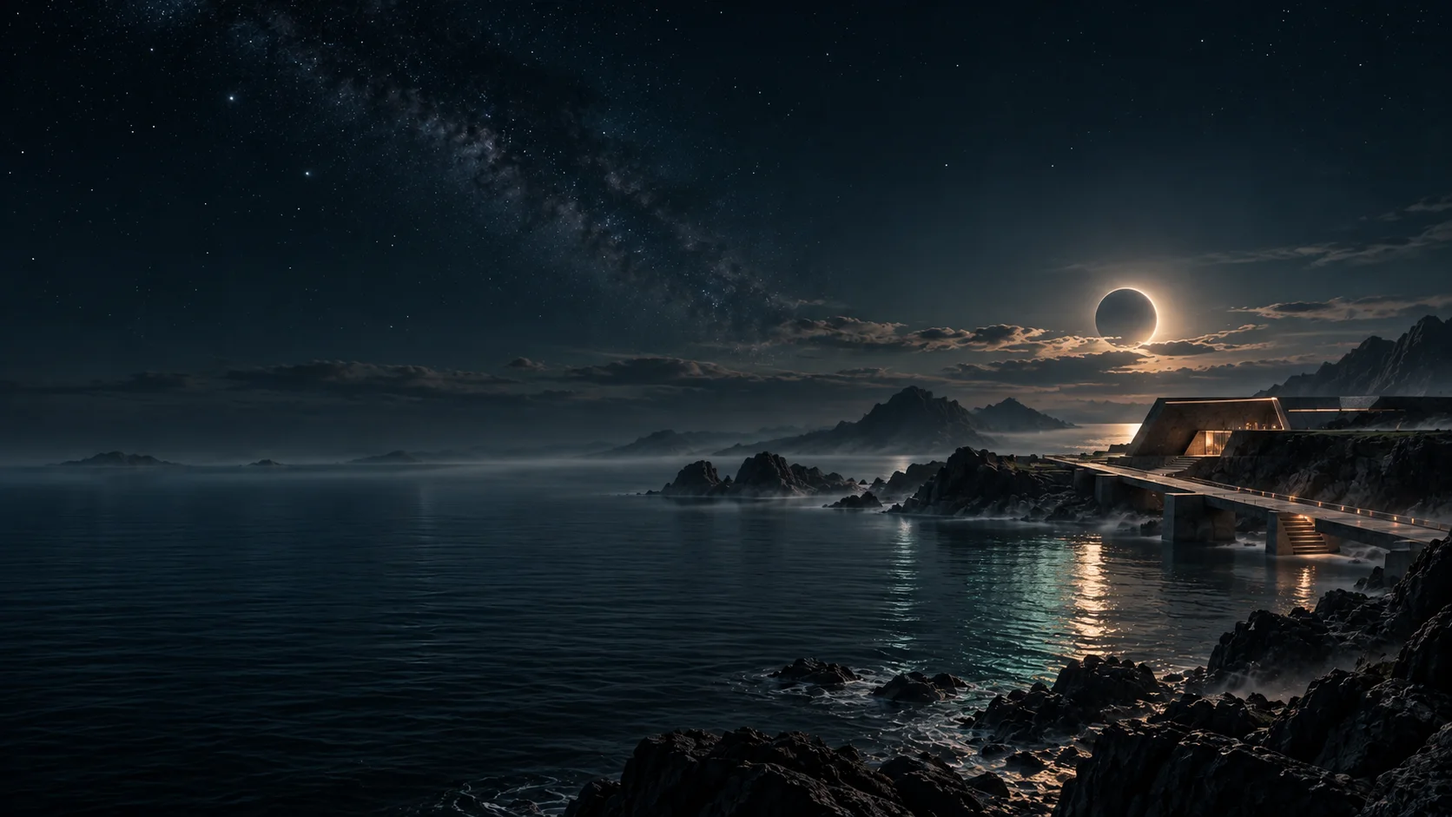
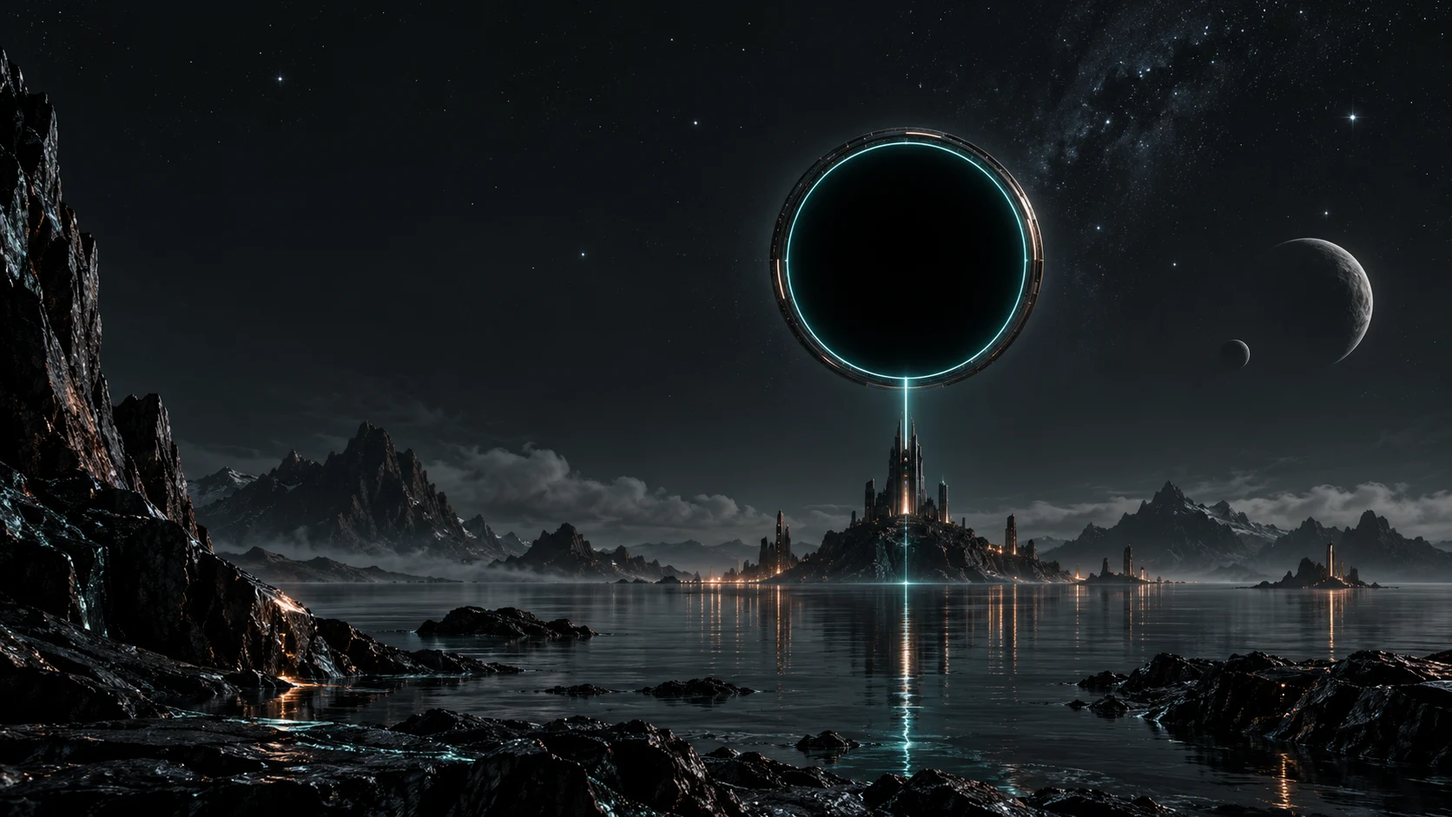
Publish Obsidian Tide 0.2.0 downloads and installation guides

diff --git a/style.css b/style.css
@@ -1,3 +1,3 @@
 @font-face{font-family:Inter;src:url('assets/Inter-Regular.otf') format('opentype');font-weight:400;font-display:swap}@font-face{font-family:Inter;src:url('assets/Inter-SemiBold.otf') format('opentype');font-weight:600;font-display:swap}@font-face{font-family:Inter;src:url('assets/Inter-Bold.otf') format('opentype');font-weight:700;font-display:swap}
-:root{color-scheme:dark;--bg:#0c1619;--surface:#142125;--line:#2c3c40;--text:#edf2ec;--muted:#a8b7b7;--teal:#82dac7;--copper:#dfb18b}*{box-sizing:border-box}html{scroll-behavior:smooth;scroll-padding-top:30px}body{margin:0;background:var(--bg);color:var(--text);font-family:Inter,system-ui,sans-serif;line-height:1.65;font-size:16px}a{color:inherit;text-decoration:none}button{font:inherit;cursor:pointer}button,a{-webkit-tap-highlight-color:transparent}button:focus-visible,a:focus-visible,summary:focus-visible,[tabindex]:focus-visible{outline:3px solid var(--teal);outline-offset:5px}button{color:inherit}img{display:block;max-width:100%;height:auto}[hidden]{display:none!important}.wrap{width:min(1240px,calc(100% - 96px));margin-inline:auto}.skip{position:fixed;top:-80px;left:20px;z-index:20;padding:10px 20px;background:var(--teal);color:var(--bg)}.skip:focus{top:12px}.site-header{display:flex;align-items:center;gap:35px;padding-block:32px}.brand{display:flex;align-items:center;gap:12px;line-height:1.1;font-size:17px;font-weight:700;letter-spacing:.09em}.brand small{display:block;font-weight:400;letter-spacing:.16em;font-size:9px;color:var(--muted);margin-top:7px}.site-header nav{display:flex;align-items:center;gap:36px;margin-left:auto;font-size:13px}.site-header nav a:hover,.text-link:hover{color:var(--teal)}.nav-download{border-bottom:1px solid var(--teal);padding-bottom:5px}.language{border:1px solid var(--line);border-radius:6px;background:transparent;font-size:12px;padding:8px 12px}.hero{display:grid;grid-template-columns:1.08fr 1fr;gap:56px;align-items:center;padding-top:60px;padding-bottom:84px}.eyebrow{font-size:10px;letter-spacing:.16em;font-weight:600;display:flex;gap:10px;align-items:center;color:var(--teal);margin:0 0 26px}.status-dot{display:inline-block;width:6px;height:6px;background:var(--teal);border-radius:50%;flex-shrink:0}.edition{color:var(--muted);border-left:1px solid var(--line);padding-left:10px;letter-spacing:.08em}h1,h2,h3,p{margin-top:0}h1{font-size:clamp(44px,4.9vw,68px);letter-spacing:-.055em;line-height:1.1;font-weight:600;margin-bottom:28px}h1 em{font-style:normal;color:var(--teal)}.hero-description{max-width:460px;color:var(--muted);font-size:15px;line-height:1.9;margin-bottom:28px}.hero-actions{display:flex;gap:22px;align-items:center;flex-wrap:wrap}.button{display:inline-flex;align-items:center;justify-content:center;gap:22px;font-size:13px;font-weight:600;padding:14px 22px;border:1px solid transparent;border-radius:5px;min-height:48px;transition:background .15s}.primary{background:var(--teal);color:#102126}.primary:hover{background:#a5ebdc}.secondary{border-color:#42565a;background:#1c2d31}.secondary:hover{background:#2b4145}.text-link{font-size:12px;line-height:1.7}.hero-note{font-size:10px;color:var(--muted);margin-top:20px;margin-bottom:0}.hero-art{position:relative;margin:0;min-height:490px;overflow:hidden;background:#112629;border-radius:2px}.hero-art>img{height:490px;object-fit:cover;object-position:58% center;width:100%}.hero-art:after{content:'';position:absolute;inset:0;background:linear-gradient(transparent 55%,#081619c9)}.hero-art figcaption{position:absolute;z-index:1;bottom:24px;left:25px;right:25px;display:flex;justify-content:space-between;gap:12px;color:#e3e9e3;font-size:9px;letter-spacing:.1em}.art-word{position:absolute;z-index:1;bottom:54px;left:24px;font-size:96px;line-height:1;font-weight:600;letter-spacing:-.065em;color:#dceae69c}.foundation{display:flex;align-items:center;justify-content:space-between;border-block:1px solid var(--line);padding:22px 0;gap:20px;font-size:11px;color:var(--muted)}.foundation p{margin:0;color:#d3dfdc;font-size:12px}.foundation i{font-style:normal;margin:0 14px;color:#627976}.desktop-section{padding-block:104px}.section-heading{display:grid;grid-template-columns:1fr 1fr;column-gap:80px;margin-bottom:46px}.section-heading .eyebrow{grid-column:1/-1}.section-heading h2{font-size:clamp(30px,3.2vw,43px);letter-spacing:-.04em;line-height:1.18;margin:0;font-weight:600}.section-heading>p:last-child{max-width:460px;color:var(--muted);font-size:14px;line-height:1.9;margin:4px 0 0}.showcase{border:1px solid var(--line);background:#101b1e;border-radius:8px;overflow:hidden}.showcase-tabs{display:flex;gap:36px;padding:0 32px;border-bottom:1px solid var(--line)}.showcase-tabs button{font-size:12px;position:relative;background:transparent;border:0;padding:21px 0;color:var(--muted)}.showcase-tabs button[aria-selected=true]{color:var(--teal)}.showcase-tabs button[aria-selected=true]:after{content:'';position:absolute;bottom:-1px;left:0;right:0;height:2px;background:var(--teal)}.app-preview{padding:34px 10% 0;min-height:520px;display:flex;align-items:flex-start;justify-content:center;background:linear-gradient(135deg,#173331,#102329 50%,#27302c)}.app-preview img{border:1px solid #49605b;border-bottom:0;border-radius:8px 8px 0 0;width:100%;max-height:600px;object-fit:contain;object-position:top;box-shadow:0 15px 40px #0007}.showcase-caption{display:flex;gap:30px;align-items:flex-start;padding:26px 32px;position:relative;z-index:1;border-top:1px solid var(--line);background:#101b1e}.tiny-label{white-space:nowrap;font-size:9px;letter-spacing:.12em;color:var(--teal);padding-top:3px}.showcase-caption p{font-size:12px;color:var(--muted);margin:0;max-width:680px}.feature-lines{display:grid;grid-template-columns:1fr 1fr;gap:60px;margin-top:46px}.feature-lines article{display:flex;gap:18px;border-top:1px solid var(--line);padding-top:28px}.feature-number{font-size:10px;color:var(--copper);padding-top:5px}h3{font-size:17px;line-height:1.45;font-weight:600;letter-spacing:-.02em;margin-bottom:12px}.feature-lines p{font-size:13px;color:var(--muted);line-height:1.9;margin:0}.download-section{background:#142428;border-block:1px solid #2b4043;padding-block:90px}.download-layout{display:grid;grid-template-columns:1fr 1.08fr;gap:90px}.download-layout h2{font-size:48px;line-height:1.15;letter-spacing:-.04em;font-weight:600;margin-bottom:24px}.download-layout>div>p{font-size:14px;max-width:375px;color:var(--muted)}.release-stamp{display:flex;align-items:center;gap:10px;flex-wrap:wrap;border-top:1px solid #34474a;margin-top:40px;padding-top:24px;font-size:12px}.release-stamp>span:last-child{width:100%;padding-left:16px;font-size:9px;letter-spacing:.12em;color:var(--muted)}.preview-note{margin-top:22px;font-size:12px!important;color:var(--copper)!important}.release-link{display:block;margin-top:22px}.download-panel{background:#0d191c;border:1px solid #3a5052;border-radius:8px;padding:28px}.platform-picker{display:flex;border:1px solid var(--line);border-radius:5px;padding:4px;gap:4px}.platform-picker button{flex:1;background:transparent;border:0;font-size:13px;padding:10px;border-radius:3px;color:var(--muted)}.platform-picker .selected{background:#294743;color:var(--teal)}.platform-hint{font-size:10px!important;max-width:none!important;margin-top:12px;margin-bottom:26px}.release-status{font-size:14px;color:var(--copper);padding:20px;border:1px solid #4e4b40;border-radius:4px}.download-step{display:flex;gap:14px;padding:22px 0;border-top:1px solid var(--line)}.download-step>div{min-width:0;width:100%}.step-badge{border:1px solid #415b58;background:#1b3231;color:var(--teal);font-size:10px;line-height:24px;text-align:center;width:25px;height:25px;flex-shrink:0;border-radius:50%}.download-step h3{font-size:13px;margin-bottom:6px}.download-step p{font-size:11px;color:var(--muted);margin-bottom:15px}.parts{display:grid;grid-template-columns:repeat(4,1fr);gap:7px}.parts a{padding:10px 5px;text-align:center;font-size:11px;background:#1c2d31;border:1px solid #354b4e;border-radius:4px}.parts a:hover{border-color:var(--teal);color:var(--teal)}.download-meta{font-size:10px!important;margin:10px 0 0!important}.download-step .button{width:100%;font-size:12px;min-height:43px;padding:12px}.download-step .text-link{display:inline-block;margin-top:12px;font-size:10px}.download-step details{margin-top:12px}details summary{font-size:11px;color:var(--muted);cursor:pointer}code{display:block;margin-top:12px;background:#081315;border:1px solid var(--line);padding:12px;color:#bddecf;font-size:10px;line-height:1.8;overflow-wrap:anywhere;white-space:pre-wrap}.checksum{border-top:1px solid var(--line);padding-top:18px}.checksum a{font-size:11px;display:inline-block;margin-top:10px;color:var(--teal)}.install-section{padding-block:104px}.install-steps{list-style:none;padding:0;margin:44px 0 52px;display:grid;grid-template-columns:repeat(3,1fr);gap:44px}.install-steps li{border-top:1px solid var(--line);padding-top:22px}.install-steps span{color:var(--copper);font-size:11px}.install-steps h3{margin-top:20px;font-size:15px}.install-steps p{font-size:12px;color:var(--muted);line-height:1.85;margin:0}.requirements{display:grid;grid-template-columns:1fr 1fr;gap:70px;padding:30px 0;border-block:1px solid var(--line)}.requirements h3{font-size:13px}.requirements p{font-size:12px;color:var(--muted);margin-bottom:10px}.requirements .text-link{color:var(--teal)}.faq{padding:22px 0;border-bottom:1px solid var(--line)}.faq summary{font-size:13px;color:var(--text)}.faq p{font-size:12px;color:var(--muted);max-width:720px;margin:16px 0 0}.site-footer{display:flex;align-items:center;justify-content:space-between;gap:24px;padding:30px 0 42px;border-top:1px solid var(--line)}.site-footer p,.site-footer>a:last-child{font-size:10px;color:var(--muted);margin:0}.site-footer .brand{font-size:12px}.site-footer .brand small{font-size:8px}
+:root{color-scheme:dark;--bg:#0c1619;--surface:#142125;--line:#2c3c40;--text:#edf2ec;--muted:#a8b7b7;--teal:#82dac7;--copper:#dfb18b}*{box-sizing:border-box}html{scroll-behavior:smooth;scroll-padding-top:30px}body{margin:0;background:var(--bg);color:var(--text);font-family:Inter,system-ui,sans-serif;line-height:1.65;font-size:16px}a{color:inherit;text-decoration:none}button{font:inherit;cursor:pointer}button,a{-webkit-tap-highlight-color:transparent}button:focus-visible,a:focus-visible,summary:focus-visible,[tabindex]:focus-visible{outline:3px solid var(--teal);outline-offset:5px}button{color:inherit}img{display:block;max-width:100%;height:auto}[hidden]{display:none!important}.wrap{width:min(1240px,calc(100% - 96px));margin-inline:auto}.skip{position:fixed;top:12px;left:20px;z-index:20;background:var(--teal);color:var(--bg);clip-path:inset(50%);width:1px;height:1px;padding:0;overflow:hidden;white-space:nowrap}.skip:focus{clip-path:none;width:auto;height:auto;padding:10px 20px;overflow:visible}.site-header{display:flex;align-items:center;gap:35px;padding-block:32px}.brand{display:flex;align-items:center;gap:12px;line-height:1.1;font-size:17px;font-weight:700;letter-spacing:.09em}.brand small{display:block;font-weight:400;letter-spacing:.16em;font-size:9px;color:var(--muted);margin-top:7px}.site-header nav{display:flex;align-items:center;gap:36px;margin-left:auto;font-size:13px}.site-header nav a:hover,.text-link:hover{color:var(--teal)}.nav-download{border-bottom:1px solid var(--teal);padding-bottom:5px}.language{border:1px solid var(--line);border-radius:6px;background:transparent;font-size:12px;padding:8px 12px}.hero{display:grid;grid-template-columns:1.08fr 1fr;gap:56px;align-items:center;padding-top:60px;padding-bottom:84px}.eyebrow{font-size:10px;letter-spacing:.16em;font-weight:600;display:flex;gap:10px;align-items:center;color:var(--teal);margin:0 0 26px}.status-dot{display:inline-block;width:6px;height:6px;background:var(--teal);border-radius:50%;flex-shrink:0}.edition{color:var(--muted);border-left:1px solid var(--line);padding-left:10px;letter-spacing:.08em}h1,h2,h3,p{margin-top:0}h1{font-size:clamp(44px,4.9vw,68px);letter-spacing:-.055em;line-height:1.1;font-weight:600;margin-bottom:28px}h1 em{font-style:normal;color:var(--teal)}.hero-description{max-width:460px;color:var(--muted);font-size:15px;line-height:1.9;margin-bottom:28px}.hero-actions{display:flex;gap:22px;align-items:center;flex-wrap:wrap}.button{display:inline-flex;align-items:center;justify-content:center;gap:22px;font-size:13px;font-weight:600;padding:14px 22px;border:1px solid transparent;border-radius:5px;min-height:48px;transition:background .15s}.primary{background:var(--teal);color:#102126}.primary:hover{background:#a5ebdc}.secondary{border-color:#42565a;background:#1c2d31}.secondary:hover{background:#2b4145}.text-link{font-size:12px;line-height:1.7}.hero-note{font-size:10px;color:var(--muted);margin-top:20px;margin-bottom:0}.hero-art{position:relative;margin:0;min-height:490px;overflow:hidden;background:#112629;border-radius:2px}.hero-art>img{height:490px;object-fit:cover;object-position:58% center;width:100%}.hero-art:after{content:'';position:absolute;inset:0;background:linear-gradient(transparent 55%,#081619c9)}.hero-art figcaption{position:absolute;z-index:1;bottom:24px;left:25px;right:25px;display:flex;justify-content:space-between;gap:12px;color:#e3e9e3;font-size:9px;letter-spacing:.1em}.art-word{position:absolute;z-index:1;bottom:54px;left:24px;font-size:96px;line-height:1;font-weight:600;letter-spacing:-.065em;color:#dceae69c}.foundation{display:flex;align-items:center;justify-content:space-between;border-block:1px solid var(--line);padding:22px 0;gap:20px;font-size:11px;color:var(--muted)}.foundation p{margin:0;color:#d3dfdc;font-size:12px}.foundation i{font-style:normal;margin:0 14px;color:#627976}.desktop-section{padding-block:104px}.section-heading{display:grid;grid-template-columns:1fr 1fr;column-gap:80px;margin-bottom:46px}.section-heading .eyebrow{grid-column:1/-1}.section-heading h2{font-size:clamp(30px,3.2vw,43px);letter-spacing:-.04em;line-height:1.18;margin:0;font-weight:600}.section-heading>p:last-child{max-width:460px;color:var(--muted);font-size:14px;line-height:1.9;margin:4px 0 0}.showcase{border:1px solid var(--line);background:#101b1e;border-radius:8px;overflow:hidden}.showcase-tabs{display:flex;gap:36px;padding:0 32px;border-bottom:1px solid var(--line)}.showcase-tabs button{font-size:12px;position:relative;background:transparent;border:0;padding:21px 0;color:var(--muted)}.showcase-tabs button[aria-selected=true]{color:var(--teal)}.showcase-tabs button[aria-selected=true]:after{content:'';position:absolute;bottom:-1px;left:0;right:0;height:2px;background:var(--teal)}.app-preview{padding:34px 10% 0;min-height:520px;display:flex;align-items:flex-start;justify-content:center;background:linear-gradient(135deg,#173331,#102329 50%,#27302c)}.app-preview img{border:1px solid #49605b;border-bottom:0;border-radius:8px 8px 0 0;width:100%;max-height:600px;object-fit:contain;object-position:top;box-shadow:0 15px 40px #0007}.showcase-caption{display:flex;gap:30px;align-items:flex-start;padding:26px 32px;position:relative;z-index:1;border-top:1px solid var(--line);background:#101b1e}.tiny-label{white-space:nowrap;font-size:9px;letter-spacing:.12em;color:var(--teal);padding-top:3px}.showcase-caption p{font-size:12px;color:var(--muted);margin:0;max-width:680px}.feature-lines{display:grid;grid-template-columns:1fr 1fr;gap:60px;margin-top:46px}.feature-lines article{display:flex;gap:18px;border-top:1px solid var(--line);padding-top:28px}.feature-number{font-size:10px;color:var(--copper);padding-top:5px}h3{font-size:17px;line-height:1.45;font-weight:600;letter-spacing:-.02em;margin-bottom:12px}.feature-lines p{font-size:13px;color:var(--muted);line-height:1.9;margin:0}.download-section{background:#142428;border-block:1px solid #2b4043;padding-block:90px}.download-layout{display:grid;grid-template-columns:1fr 1.08fr;gap:90px}.download-layout h2{font-size:48px;line-height:1.15;letter-spacing:-.04em;font-weight:600;margin-bottom:24px}.download-layout>div>p{font-size:14px;max-width:375px;color:var(--muted)}.release-stamp{display:flex;align-items:center;gap:10px;flex-wrap:wrap;border-top:1px solid #34474a;margin-top:40px;padding-top:24px;font-size:12px}.release-stamp>span:last-child{width:100%;padding-left:16px;font-size:9px;letter-spacing:.12em;color:var(--muted)}.preview-note{margin-top:22px;font-size:12px!important;color:var(--copper)!important}.release-link{display:block;margin-top:22px}.download-panel{background:#0d191c;border:1px solid #3a5052;border-radius:8px;padding:28px}.platform-picker{display:flex;border:1px solid var(--line);border-radius:5px;padding:4px;gap:4px}.platform-picker button{flex:1;background:transparent;border:0;font-size:13px;padding:10px;border-radius:3px;color:var(--muted)}.platform-picker .selected{background:#294743;color:var(--teal)}.platform-hint{font-size:10px!important;max-width:none!important;margin-top:12px;margin-bottom:26px}.release-status{font-size:14px;color:var(--copper);padding:20px;border:1px solid #4e4b40;border-radius:4px}.download-step{display:flex;gap:14px;padding:22px 0;border-top:1px solid var(--line)}.download-step>div{min-width:0;width:100%}.step-badge{border:1px solid #415b58;background:#1b3231;color:var(--teal);font-size:10px;line-height:24px;text-align:center;width:25px;height:25px;flex-shrink:0;border-radius:50%}.download-step h3{font-size:13px;margin-bottom:6px}.download-step p{font-size:11px;color:var(--muted);margin-bottom:15px}.parts{display:grid;grid-template-columns:repeat(4,1fr);gap:7px}.parts a{padding:10px 5px;text-align:center;font-size:11px;background:#1c2d31;border:1px solid #354b4e;border-radius:4px}.parts a:hover{border-color:var(--teal);color:var(--teal)}.download-meta{font-size:10px!important;margin:10px 0 0!important}.download-step .button{width:100%;font-size:12px;min-height:43px;padding:12px}.download-step .text-link{display:inline-block;margin-top:12px;font-size:10px}.download-step details{margin-top:12px}details summary{font-size:11px;color:var(--muted);cursor:pointer}code{display:block;margin-top:12px;background:#081315;border:1px solid var(--line);padding:12px;color:#bddecf;font-size:10px;line-height:1.8;overflow-wrap:anywhere;white-space:pre-wrap}.checksum{border-top:1px solid var(--line);padding-top:18px}.checksum a{font-size:11px;display:inline-block;margin-top:10px;color:var(--teal)}.install-section{padding-block:104px}.install-steps{list-style:none;padding:0;margin:44px 0 52px;display:grid;grid-template-columns:repeat(3,1fr);gap:44px}.install-steps li{border-top:1px solid var(--line);padding-top:22px}.install-steps span{color:var(--copper);font-size:11px}.install-steps h3{margin-top:20px;font-size:15px}.install-steps p{font-size:12px;color:var(--muted);line-height:1.85;margin:0}.requirements{display:grid;grid-template-columns:1fr 1fr;gap:70px;padding:30px 0;border-block:1px solid var(--line)}.requirements h3{font-size:13px}.requirements p{font-size:12px;color:var(--muted);margin-bottom:10px}.requirements .text-link{color:var(--teal)}.faq{padding:22px 0;border-bottom:1px solid var(--line)}.faq summary{font-size:13px;color:var(--text)}.faq p{font-size:12px;color:var(--muted);max-width:720px;margin:16px 0 0}.site-footer{display:flex;align-items:center;justify-content:space-between;gap:24px;padding:30px 0 42px;border-top:1px solid var(--line)}.site-footer p,.site-footer>a:last-child{font-size:10px;color:var(--muted);margin:0}.site-footer .brand{font-size:12px}.site-footer .brand small{font-size:8px}
 @media(min-width:1500px){.hero-art{min-height:530px}.hero-art>img{height:530px}}@media(max-width:1000px){.wrap{width:calc(100% - 56px)}.hero{gap:28px}.hero-art,.hero-art>img{min-height:420px;height:420px}.hero-actions{gap:15px}.download-layout{gap:42px}.section-heading{gap:30px}.app-preview{min-height:390px}.foundation i{margin:0 8px}.feature-lines{gap:35px}.download-layout h2{font-size:40px}}@media(max-width:700px){.wrap{width:calc(100% - 36px)}.site-header{padding-block:22px;gap:16px}.site-header nav{gap:16px}.site-header nav a:not(.nav-download){display:none}.site-header .brand{font-size:14px}.language{padding:7px 9px}.hero{grid-template-columns:1fr;padding-top:34px;padding-bottom:38px;gap:32px}h1{font-size:46px;max-width:520px}.hero-description{font-size:14px}.hero-art,.hero-art>img{height:300px;min-height:300px}.art-word{font-size:80px}.hero-art figcaption{font-size:8px}.foundation{align-items:flex-start;flex-direction:column;gap:7px;font-size:10px}.foundation p{font-size:10px}.foundation i{margin:0 6px}.desktop-section,.install-section{padding-block:60px}.section-heading{grid-template-columns:1fr;gap:20px;margin-bottom:30px}.section-heading .eyebrow{margin:0}.section-heading h2{font-size:32px}.section-heading>p:last-child{font-size:13px}.showcase-tabs{gap:20px;padding:0 15px}.showcase-tabs button{font-size:10px;padding:16px 0}.app-preview{padding:22px 14px 0;min-height:0;height:auto}.app-preview img{border-radius:5px 5px 0 0}.showcase-caption{display:block;padding:19px}.showcase-caption p{font-size:11px;margin-top:8px}.feature-lines{grid-template-columns:1fr;gap:25px;margin-top:30px}.feature-lines h3{font-size:16px}.download-section{padding-block:54px}.download-layout{grid-template-columns:1fr;gap:32px}.download-layout h2{font-size:40px}.download-panel{padding:20px}.release-stamp{margin-top:26px}.install-steps{grid-template-columns:1fr;gap:27px;margin:28px 0 35px}.install-steps li{display:grid;grid-template-columns:30px 1fr;gap:10px}.install-steps span{grid-row:1/3;padding-top:3px}.install-steps h3{margin:0}.install-steps p{grid-column:2}.requirements{grid-template-columns:1fr;gap:25px}.site-footer{align-items:flex-start;flex-wrap:wrap;gap:20px}.site-footer p{order:3;width:100%}.site-footer>a:last-child{margin-left:auto}}@media(prefers-reduced-motion:reduce){html{scroll-behavior:auto}.button{transition:none}}

diff --git a/app.js b/app.js
@@ -59,7 +59,7 @@ function renderRelease(){
   const portable=document.getElementById('portable-download');portable.hidden=platform!=='linux';if(platform==='linux')portable.href=assetUrl(release.mediaCreator.portable.name);
   document.getElementById('iso-hash').textContent=release.iso.sha256;
   document.getElementById('checksum-download').href=assetUrl('SHA256SUMS');
-  const guide=document.getElementById('install-guide');guide.href=assetUrl('INSTALL.md');guide.hidden=false;
+  const guide=document.getElementById('install-guide');guide.href=`https://github.com/${repository}/blob/main/${language==='bg'?'INSTALL.bg.md':'INSTALL.md'}`;guide.hidden=false;
   const validation=document.getElementById('validation-text');
   const gates=[];if(release.validation.nativeTests)gates.push(language==='bg'?`${release.validation.nativeTests} native теста`:`${release.validation.nativeTests} native tests`);if(release.validation.squashfsAudit)gates.push('SquashFS audit');if(release.validation.uefiBoot)gates.push(language==='bg'?'UEFI стартиране в VM':'UEFI boot in VM');if(release.validation.installedBoot)gates.push(language==='bg'?'инсталация и първо стартиране в VM':'installation and first boot in VM');
   validation.textContent=(language==='bg'?'Проверено: ':'Checked: ')+gates.join(', ')+(language==='bg'?'. Физически PC/лаптоп, Windows USB запис и Secure Boot още не са валидирани за този образ.':'. Physical PC/laptop installation, Windows USB writing and Secure Boot remain unvalidated for this image.');

diff --git a/index.html b/index.html
@@ -26,7 +26,7 @@
         <div class="hero-actions"><a class="button primary" href="#download" data-i18n="heroDownload">Свали Tanados <span aria-hidden="true">↓</span></a><a class="text-link" href="#desktop" data-i18n="heroExplore">Разгледай десктопа <span aria-hidden="true">→</span></a></div>
         <p class="hero-note" data-i18n="heroNote">За x86-64 компютри и лаптопи · Безплатен preview</p>
       </div>
-      <figure class="hero-art"><img src="assets/tide.webp" alt="Obsidian Tide: dark coastal rock, copper light and a teal sea" width="1672" height="941" fetchpriority="high"><figcaption><span>01 / OBSIDIAN TIDE</span><span data-i18n="artCaption">Нова палитра. Нов поглед.</span></figcaption><span class="art-word" aria-hidden="true">TIDE</span></figure>
+      <figure class="hero-art"><img src="assets/tide.webp" alt="Tanados Aperture: a teal portal and light beam above a dark rocky city and lake" width="1672" height="941" fetchpriority="high"><figcaption><span>01 / OBSIDIAN TIDE</span><span data-i18n="artCaption">Нова палитра. Нов поглед.</span></figcaption><span class="art-word" aria-hidden="true">TIDE</span></figure>
     </section>
     <div class="foundation wrap"><span data-i18n="foundation">Основа, която познаваш.</span><p>Ubuntu 26.04 LTS <i>/</i> KDE Plasma 6 <i>/</i> Wayland <i>/</i> Btrfs</p></div>
     <section class="desktop-section wrap" id="desktop" aria-labelledby="desktop-title">

diff --git a/INSTALL.bg.md b/INSTALL.bg.md
@@ -1,0 +1,63 @@
+# Инсталиране на Tanados Obsidian Tide 0.2.0
+
+Отвори **[страницата за сваляне](https://helldragonpz.github.io/TanadosLinux-Downloads/)** и избери Windows или Linux — системата, от която ще създадеш флашката. Файловете са публични и не изискват GitHub акаунт. Кодът на проекта остава в частното repo.
+
+Това е preview за x86-64 компютри и лаптопи. Използвай флашка с поне **16 GB**, поне **4 GB RAM**, **40 GB** място за инсталираната система и **16 GB** свободно място за свалените части и готовото ISO. Изключи Secure Boot. Запази важните файлове на компютъра преди инсталация.
+
+## Свали и съедини ISO
+
+Свали **всичките четири части** `.iso.part01`–`.iso.part04` и помощника `Join-Tanados-ISO.ps1` за Windows или `Join-Tanados-ISO.sh` за Linux. Сложи ги в една папка върху NTFS, exFAT или нормална Linux файлова система. FAT32 не може да съхранява готовото ISO. ZIP архивът „Source code“ не съдържа операционната система.
+
+Отвори PowerShell в папката с файловете на Windows:
+
+```powershell
+powershell -NoProfile -ExecutionPolicy Bypass -File .\Join-Tanados-ISO.ps1
+```
+
+Или терминал на Linux:
+
+```bash
+bash ./Join-Tanados-ISO.sh
+```
+
+Помощникът съединява частите, проверява целия SHA-256 и създава `Tanados-Obsidian-Tide-0.2.0-amd64.iso` и неговия `.sha256` файл. Остави тези два файла заедно. Помощникът не записва върху флашка или друг диск.
+
+Очакван SHA-256 на готовото ISO:
+
+```text
[1 lines of base64/hex data omitted]
+```
+
+## Направи инсталационна флашка
+
+На Windows разархивирай целия пакет `Tanados-Media-Creator-0.2.0-Windows-x64.zip` и отвори `TanadosMediaCreator.exe`. Запази останалите файлове до EXE файла.
+
+На Ubuntu/Debian инсталирай DEB пакета и отвори Tanados Media Creator от менюто:
+
+```bash
+sudo apt install ./Tanados-Media-Creator-0.2.0-Linux-amd64.deb
+```
+
+Linux portable архивът е друга възможност за системи с работещ Chromium sandbox.
+
+1. Включи флашката и отвори Media Creator.
+2. Избери готовото **ISO**, не отделна част. Изчакай **Checksum matched**.
+3. Избери точната флашка по модел, сериен номер и размер. На Linux първо демонтирай нейните томове.
+4. Натисни **Create USB**, прегледай избраната флашка и потвърди изтриването. **Всичко на тази флашка ще бъде изтрито.**
+5. Потвърди административния прозорец на операционната система. Изчакай записът и пълната проверка да приключат.
+
+Ако използваш Rufus, избери **DD Image mode**, когато програмата попита.
+
+## Стартирай и инсталирай
+
+1. Запази важните файлове на целевия компютър. Свържи лаптопа към зарядното.
+2. Изключи Secure Boot и избери **UEFI USB** от boot менюто.
+3. Разгледай live desktop и провери дисплея, клавиатурата, мрежата и звука.
+4. Отвори **Install Tanados**. Внимателно прегледай целевия диск и режима за разделяне. **Erase disk изтрива всички данни на избрания диск.** Dual boot и криптирана инсталация още не са валидирани за това издание.
+5. След приключване извади флашката, когато бъдеш помолен, рестартирай и влез с акаунта, създаден в инсталатора.
+
+От **Appearance** избери Tide, Copper или Glacier и шрифтовете за приложенията и терминала. **Aperture → Fit to leftmost display** поставя новия фон и прозрачния аудио ореол на най-левия монитор. **Fit to all displays** го прилага на всички монитори, с вертикална или хоризонтална композиция според ориентацията. Настройките на widget-а включват интензивност, цветове, пауза и намалено движение.
+
+Health, Recovery, Updates и Laptop & Firmware са в Control Center. Lumi е по избор и първоначално е изключена. Подписаният desktop preview канал все още изисква достъп до частното repo; APT системните обновления и публичните инсталационни файлове не го изискват.
+
+Физическа инсталация на PC/лаптоп, запис на USB от истински Windows, Secure Boot и recovery boot още не са преминали приемателните тестове за този образ. Виж **[провереното за версията](https://github.com/helldragonpz/TanadosLinux-Downloads/releases/tag/v0.2.0-tide-preview)**. При проблем изпрати модела на компютъра, GPU, firmware режима и стъпката, на която е възникнал. Log файлът на инсталатора е `/root/.cache/calamares/session.log` в live сесията; копирай го с администраторски достъп преди изключване.

diff --git a/INSTALL.md b/INSTALL.md
@@ -1,0 +1,123 @@
+# Install Tanados Obsidian Tide 0.2.0
+
+This is the **0.2.0 preview for x86-64 PCs and laptops**. It includes Health,
+Recovery, signed Updates, Laptop & Firmware, the shared Tanados app interface,
+Lumi components, Tide/Copper/Glacier terminal themes and the GPU Resonance
+visualizer. Aperture adds new portrait/landscape artwork with a transparent
+audio-reactive halo. Physical PC/laptop installation, Secure Boot and native
+Windows USB writing still need hardware testing.
+
+## Download from GitHub
+
+Open **[the download page](https://helldragonpz.github.io/TanadosLinux-Downloads/)**
+and choose Windows or Linux. Downloads are public and require no GitHub account.
+The source repository remains private. You can also open **[the 0.2.0 release](https://github.com/helldragonpz/TanadosLinux-Downloads/releases/tag/v0.2.0-tide-preview)**
+and expand **Assets**.
+The GitHub **Source code** ZIP/tarball contains source, not a bootable OS.
+
+Download your Media Creator package and all four files ending in
+`.iso.part01`, `.iso.part02`, `.iso.part03` and `.iso.part04`. Put the four parts
+and the joining helper below in one folder on NTFS, exFAT or a normal Linux
+filesystem; FAT32 cannot hold the finished ISO. Allow at least 16 GB free for
+the parts and reconstructed ISO. GitHub limits each release asset to 2 GiB,
+so the ISO is split only for downloading.
+
+On **Windows**, also download `Join-Tanados-ISO.ps1`. Open PowerShell in that
+folder and run:
+
+```powershell
+powershell -NoProfile -ExecutionPolicy Bypass -File .\Join-Tanados-ISO.ps1
+```
+
+On **Linux**, also download `Join-Tanados-ISO.sh`. Open a terminal in that
+folder and run:
+
+```bash
+bash ./Join-Tanados-ISO.sh
+```
+
+The helper joins and verifies the full published SHA-256 before saving
+`Tanados-Obsidian-Tide-0.2.0-amd64.iso` and its `.sha256` sidecar. It never
+writes to a USB or target disk. Choose the resulting **ISO**, not a part file,
+in Media Creator. After successful verification you can delete the four parts. The checksum sidecar must stay beside the ISO.
+
+## Files to send directly
+
+Send these three files together:
+
+- `Tanados-Obsidian-Tide-0.2.0-amd64.iso`
+- `Tanados-Obsidian-Tide-0.2.0-amd64.iso.sha256`
+- The Media Creator package for your friend's existing operating system:
+  `Tanados-Media-Creator-0.2.0-Windows-x64.zip` or
+  `Tanados-Media-Creator-0.2.0-Linux-amd64.deb`.
+
+Send this guide too. The ISO is 6,446,008,320 bytes; use a
+**16 GB or larger USB**. Keep the ISO and its `.sha256` in the same folder.
+Media Creator currently opens a local ISO; it does not download one for you.
+
+The expected ISO SHA-256 is:
+
+```text
[1 lines of base64/hex data omitted]
+```
+
+## Create the USB
+
+On **Windows 10/11**, extract the whole ZIP, open its extracted folder and run
+`TanadosMediaCreator.exe`. Keep all files beside the EXE. On **Ubuntu/Debian
+Linux**, install the DEB through your package manager, then open **Tanados
+Media Creator** from the application menu. A Linux portable tar archive is
+also supplied for systems with working Chromium sandbox support.
+
+On Ubuntu/Debian, installing from the download folder can also be done with:
+
+```bash
+sudo apt install ./Tanados-Media-Creator-0.2.0-Linux-amd64.deb
+```
+
+1. Plug in the USB and open Media Creator.
+2. Choose the Tanados ISO. Wait for **Checksum matched**.
+3. Select the USB. On Linux, unmount any mounted USB volumes first.
+4. Choose **Create USB**, check the displayed model, serial and capacity,
+   then confirm erasing that USB. **All files on that USB will be lost.**
+5. Approve the operating system's administrator prompt. Keep the USB connected
+   until the app finishes writing and verifying the full image.
+
+The writer uses a raw image write and complete read-back verification.
+If using Rufus instead, select **DD Image mode** when prompted. See
+[the alternative writer instructions](INSTALLATION-MEDIA.md).
+
+## Boot and install
+
+1. Back up the destination computer's files. Connect laptops to power.
+2. Turn **Secure Boot off** in firmware for this preview. Open the computer's
+   boot menu and select the USB's **UEFI** entry.
+3. Start the Tanados live desktop. Check the display, keyboard, networking and
+   audio before installing.
+4. Open **Install Tanados** and follow the guided installer. Review the
+   destination disk carefully. **Erase disk deletes that disk's existing
+   partitions and data.** Use the manual/preserve path when keeping another OS;
+   that path is not covered by this release's clean-install test.
+5. Finish installation, remove the USB when asked, and boot from the installed
+   disk. If the Tanados boot menu appears, select its first entry. Sign in with
+   the account you created in the installer.
+
+Open **Tanados Appearance** to switch Tide, Copper or Glacier and choose your
+interface and terminal fonts. **Auto Fit Monitors** in Control Center assigns
+coordinated landscape and portrait wallpapers. For an integrated audio halo, open **Appearance → Aperture → Fit to leftmost
+monitor** or **Fit to all monitors**. This selects matching portrait/landscape
+artwork and places the transparent GPU widget over its portal. Right-click the
+halo to configure intensity, colors, pause or reduced motion. Other desktop
+widgets retain their positions. The previous scene is saved under
+`~/.local/state/tanados/wallpaper-layout/backups/`. The regular **Tanados
+Resonance** widget is also available from Plasma's widget menu. Lumi remains optional and off
+until enabled by the user. The signed desktop preview update channel currently
+requires access to the private source repository; APT system updates and the
+public installation downloads do not require it.
+
+If booting, graphics or installation fails, keep the installer log and report
+the PC/laptop model, GPU, firmware mode and the failing step to the person who
+sent you this preview. In the live session, the installer log is
+`/root/.cache/calamares/session.log`; use administrator access to copy it before
+shutting down the live session. Release-specific checks are recorded in
+[the release evidence](releases/OBSIDIAN-TIDE-0.2.0.md).

diff --git a/RELEASE.md b/RELEASE.md
@@ -1,0 +1,59 @@
+# Obsidian Tide 0.2.0 preview evidence
+
+The [public download page](https://helldragonpz.github.io/TanadosLinux-Downloads/)
+provides Bulgarian/English installation guidance and release downloads without
+GitHub authentication. Source remains in the private TanadosLinux repository.
+
+## Artifact identity
+
+- Payload source revision: `531b52a25f2f2fb79dc63e45f3fe0e9423890d09`.
+- OS version: `0.2.0`; media label: `TANADOS_020`.
+- ISO: `Tanados-Obsidian-Tide-0.2.0-amd64.iso`.
+- Size: `6446008320` bytes.
[2 lines of base64/hex data omitted]
+- Media Creator: `0.2.0`, Windows ZIP / Linux DEB / Linux portable archive.
+- Desktop suite: `0.2.0~preview4`, Ed25519 signature and native verifier checked,
+  installed on the owner workstation. Package SHA-256:
[1 lines of base64/hex data omitted]
+
+The cached Ubuntu build root was refreshed with every Tanados file mapping,
+full native voice workers/assets/notices, current hooks, a rebuilt initramfs
+and the reviewed GRUB EFI loader. The root filesystem was repacked and the
+BIOS/UEFI hybrid image finalized. Media checksums are generated after copying
+final boot/kernel/initramfs files. Earlier published 0.1.0 files are retained.
+
+## Included changes
+
+Health, bounded Recovery, signed Updates and Laptop & Firmware; shared UI across
+13 native Tanados applications; current Lumi components; recent browser portal,
+ALSA UCM and MOTD fixes; sandboxed Media Creator; and the Aperture halo scene.
+Recovery remains optional and requires a supported Btrfs layout. It is not a
+backup. Lumi is initially disabled.
+
+Aperture uses separate original portrait/landscape images with a transparent
+GPU widget placed over their portal. The owner workstation's left portrait
+monitor was checked through Plasma geometry, live audio service data, GPU shader
+status and a desktop capture. Existing hardware/assistant widgets retained their
+positions. Appearance can apply it to the leftmost or all connected monitors.
+
+## Checks
+
+- Native CTest: **109/109 passed**, 96.40 seconds, including full production voice backends.
+- Full SquashFS payload audit: passed, including current UI, source mappings, voice assets/notices, browsers, UCM, themes, Aperture and sandbox permissions.
+- Hybrid image: BIOS/UEFI El Torito entries, primary ISO9660 GPT partition, dedicated EFI partition and pinned loader readback passed.
+- Final ISO UEFI live boot: passed in an isolated 2-CPU / 4 GiB RAM VM.
+- Linux joining helper: reconstructed all four final parts and matched the complete ISO SHA-256.
+- GitHub draft assets: all 15 uploaded sizes and API SHA-256 digests matched local files; authenticated INSTALL.bg.md download matched.
+- Download UI: 1440 px and 390 px browser checks passed with four active part links, BG/EN switching, Windows/Linux packages and no horizontal overflow or JavaScript errors.
+- Clean install and first disk-only UEFI boot: passed with a fresh user, Btrfs root/home, swap, no live account/autologin, correct sandbox permissions and a working Appearance window/catalog.
+- Public release publication and unauthenticated downloads are checked after activation.
+
+Preview limits: physical PC/laptop installation, native Windows USB writing and
+Windows ISO joining remain unvalidated. Secure Boot must be off. Dual boot,
+encrypted installation and a complete recovery boot are separate acceptance
+steps. The signed desktop preview channel still requires private repository
+access; public installation downloads and APT system updates do not.
+
+The source revision identifies the payload. Later documentation/website commits
+record release hashes and download links without changing that image.

diff --git a/README.md b/README.md
@@ -1,0 +1,18 @@
+# Tanados Linux — Obsidian Tide
+
+**[Свали Tanados / Download Tanados](https://helldragonpz.github.io/TanadosLinux-Downloads/)**
+
+Публична страница и инсталационни файлове за приятелите ни. Не е нужен GitHub акаунт. Кодът на операционната система остава в частното TanadosLinux repo.
+
+Public download website and installation files for our friends. No GitHub account is required. Operating-system source stays in the private TanadosLinux repository.
+
+- [Ръководство на български](INSTALL.bg.md)
+- [English installation guide](INSTALL.md)
+- [Release files and checksums](https://github.com/helldragonpz/TanadosLinux-Downloads/releases)
+- [Report a problem](https://github.com/helldragonpz/TanadosLinux-Downloads/issues)
+
+Choose Windows or Linux on the download page. Download all four ISO parts and the joining helper, then open the verified ISO in Media Creator. A 16 GB USB is required. The generated Source code ZIP/tarball contains this website, not the operating system.
+
+This is a preview. Secure Boot must be off. Back up the target computer. Physical PC/laptop installation and native Windows USB writing remain acceptance steps. The release notes record the checks completed for each image. Signed desktop preview updates still require access to the private repository; public installation files and APT system updates do not.
+
+The website is published by GitHub Pages from the root of `main`. Fonts include their license in `assets/INTER-LICENSE.txt`; the generated Tanados Aperture artwork follows the wallpaper package's CC-BY-SA-4.0 license.
